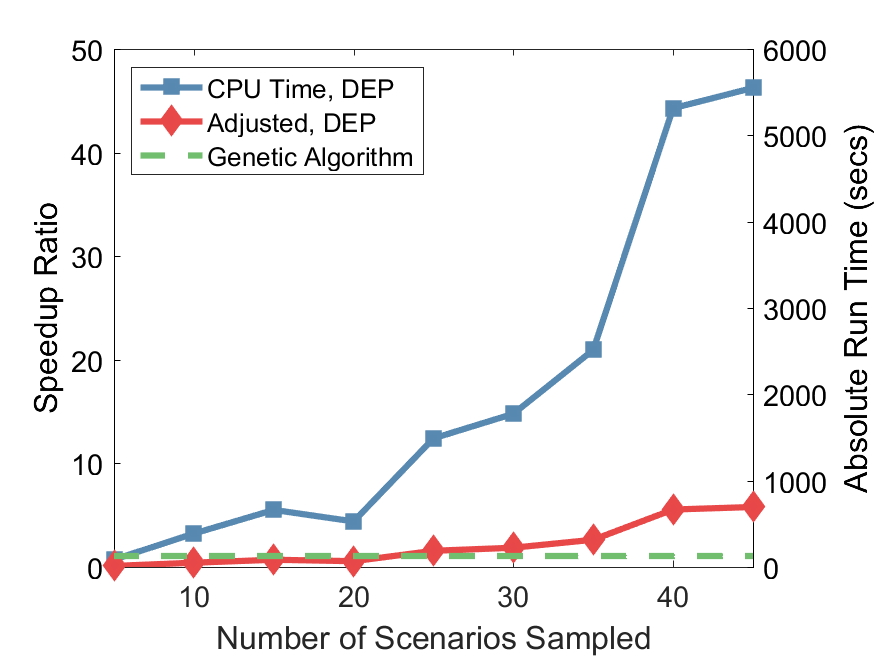
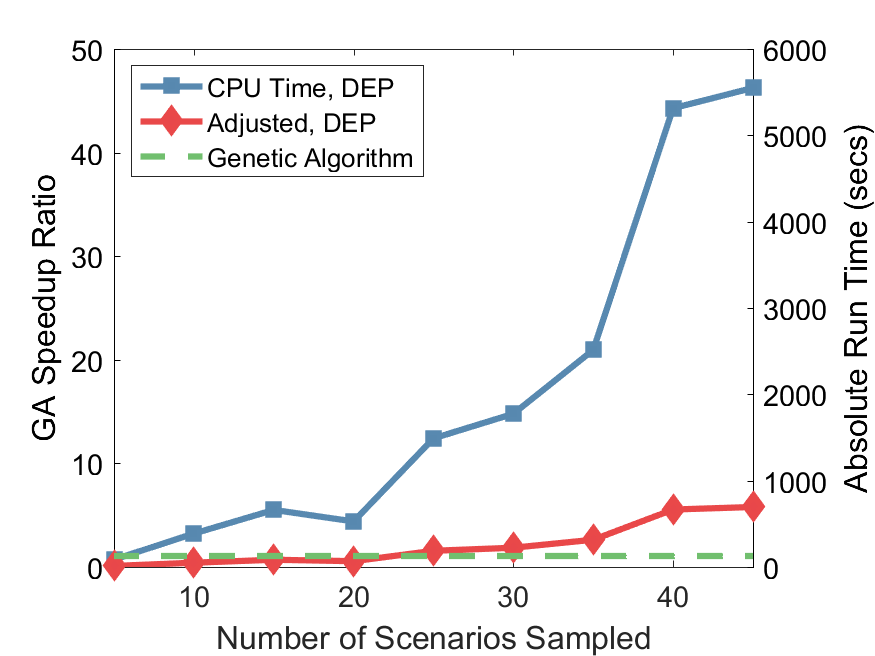
Sync

diff --git a/KT_Thesis.tex b/KT_Thesis.tex
@@ -35,6 +35,7 @@
 \usepackage{hyperref}
 \usepackage{cleveref}
 \usepackage{setspace}
+\usepackage{nicefrac}
 
 \newif\ifisdoublespacing
 
@@ -460,7 +461,7 @@ Throughout this thesis, stochastic variables will be differentiated from determi
 
 Consider a geographic region, $\mathcal{R}$, of width $X$ meters and length $Y$ meters that contains a VNB and a set $\mathcal{S} \defeq \left\{ 1,\, 2,\, \ldots,\, S \right\}$ of virtualized resources (i.e., BSs) the VNB has aggregated for use in the construction of VWNs.  The pool of BSs, $\mathcal{S}$, is mapped to physical BSs owned and maintained by RPs and made available for use through contracts between the RPs and the VNB.  The contract-negotiated cost for the VNB to lease BS $s \in \mathcal{S}$ is denoted by $c_s$.  The costs for the BSs used within a constructed VWN are passed to the SPs as part of the overall cost of the network.  The rate capacity of BS $s \in \mathcal{S}$ is denoted by $r_s$ and its coverage radius is denoted by $b_s$.
 
-Let $\mathcal{N} \defeq \left\{ 1,\, 2,\, \ldots,\, N \right\}$ be the set of SPs seeking a VWN with coverage within the region $\mathcal{R}$.  An SP $n \in \mathcal{N}$ associates with the VNB to create the desired VWN.  Through this association, SP $n$ must coordinate with the VNB to indicate the demands of the intended service the VWN would need to satisfy.  SP $n$ must know and communicate to the VNB the estimated geographic distribution of the service's traffic demand density (or demand \emph{intensity}) as a function, $\lambda_n\left( x,\, y \right),\, n \in \mathcal{N},\, x \in \left[ 0,\, X \right],\, y \in \left[ 0,\, Y \right],\,$ in terms of $\frac{\text{bits}}{\text{km}^2}$.  The demand intensity function could be in the form of a continuous function or as discrete pixels (e.g., a bitmap), and indicates the locations of necessary coverage and the desired capacity within specific regions of the area.  Examples of possible maps could be for services such as localized video streaming (specific, localized coverage with high regional capacities) or MNO-like voice lines (broad coverage with comparatively low capacity).  For an example of $\lambda_n$, see \Cref{subsec:networkdefs_sslt}.
+Let $\mathcal{N} \defeq \left\{ 1,\, 2,\, \ldots,\, N \right\}$ be the set of SPs seeking a VWN with coverage within the region $\mathcal{R}$.  An SP $n \in \mathcal{N}$ associates with the VNB to create the desired VWN.  Through this association, SP $n$ must coordinate with the VNB to indicate the demands of the intended service the VWN would need to satisfy.  SP $n$ must know and communicate to the VNB the estimated geographic distribution of the service's traffic demand density (or demand \emph{intensity}) as a function, $\lambda_n\left( x,\, y \right),\, n \in \mathcal{N},\, x \in \left[ 0,\, X \right],\, y \in \left[ 0,\, Y \right],\,$ in terms of $\nicefrac{\text{bits}}{\text{km}^2}$.  The demand intensity function could be in the form of a continuous function or as discrete pixels (e.g., a bitmap), and indicates the locations of necessary coverage and the desired capacity within specific regions of the area.  Examples of possible maps could be for services such as localized video streaming (specific, localized coverage with high regional capacities) or MNO-like voice lines (broad coverage with comparatively low capacity).  For an example of $\lambda_n$, see \Cref{subsec:networkdefs_sslt}.
 
 Further, the SP would also provide the desired or needed percent demand satisfaction rate\footnote{Percent demand satisfaction rate refers to the percent of the demand described by $\lambda_n$ that is satisfied by VWN constructed by the VNB.  In this context, it is the percent of total requested demand that is sliced resources by the VNB.  This will be more formally described later in \Cref{sec:stochopt} (\cref{eq:VWN_demand_sat}) and evaluated during simulations in \Cref{ch:sim}.} for the service.  Some services, such as those related to emergency services, must have nearly 100\% demand satisfaction.  Others, such as generic voice lines or video streaming, may be able to tolerate some unsatisfied demand as a tradeoff for decreased network leasing or operational costs.
 
@@ -591,14 +592,14 @@ The autocorrelation function is notably dependent on the maximum angular frequen
 \begin{subfigure}{.45\textwidth}
 	\centering
 	\includegraphics[width=1\linewidth]{lambdaG_O2pi-300_L100000_X100_Y100}
-	\caption{\small $\omega_{\max}=\frac{2 \pi}{30}$}
+	\caption{\small $\omega_{\max}=\nicefrac{2 \pi}{30}$}
 	\label{fig:lambdaG_2pi-300}
 \end{subfigure}
 \hspace{0.5cm}
 \begin{subfigure}{.45\textwidth}
 	\centering
 	\includegraphics[width=1\linewidth]{lambdaG_O4pi-300_L100000_X100_Y100}
-	\caption{\small $\omega_{\max}=\frac{4 \pi}{30}$}
+	\caption{\small $\omega_{\max}=\nicefrac{4 \pi}{30}$}
 	\label{fig:lambdaG_4pi-300}
 \end{subfigure}
 \caption[Example Gaussian random fields for SSLT demand model generation]{\small Two example Gaussian random fields (i.e., $\lambda^G$) for generating the SSLT demand model, varying by $\omega_{\max}$.  $L = 100000,\, X = 100,\, Y = 100$}
@@ -625,14 +626,14 @@ Fig. \ref{fig:lambda} shows the resulting SSLT demand density distribution, $\la
 \begin{subfigure}{.45\textwidth}
 	\centering
 	\includegraphics[width=1\linewidth]{lambda_O2pi-300_L100000_X100_Y100}
-	\caption{\small $\omega_{\max}=\frac{2 \pi}{30}$}
+	\caption{\small $\omega_{\max}=\nicefrac{2 \pi}{30}$}
 	\label{fig:lambda_2pi-300}
 \end{subfigure}
 \hspace{0.5cm}
 \begin{subfigure}{.45\textwidth}
 	\centering
 	\includegraphics[width=1\linewidth]{lambda_O4pi-300_L100000_X100_Y100}
-	\caption{\small $\omega_{\max}=\frac{4 \pi}{30}$}
+	\caption{\small $\omega_{\max}=\nicefrac{4 \pi}{30}$}
 	\label{fig:lambda_4pi-300}
 \end{subfigure}
 \caption[Generated example SSLT demand fields]{\small Two SSLT demand fields generated from the $\lambda^G$ demand fields displayed in Fig. \ref{fig:lambdaG}. $\mu = 0,\, \sigma = 1$}
@@ -648,14 +649,14 @@ I deviate from their implementation by leaving the SSLT distribution as a contin
 \begin{subfigure}{.45\textwidth}
 	\centering
 	\includegraphics[width=1\linewidth]{lambda_nsPPP-400_O2pi-300_L100000_X100_Y100}
-	\caption{\small $\omega_{\max}=\frac{2 \pi}{30}$}
+	\caption{\small $\omega_{\max}=\nicefrac{2 \pi}{30}$}
 	\label{fig:lambda_nsPPP_2pi-300}
 \end{subfigure}
 \hspace{0.5cm}
 \begin{subfigure}{.45\textwidth}
 	\centering
 	\includegraphics[width=1\linewidth]{lambda_nsPPP-400_O4pi-300_L100000_X100_Y100}
-	\caption{\small $\omega_{\max}=\frac{4 \pi}{30}$}
+	\caption{\small $\omega_{\max}=\nicefrac{4 \pi}{30}$}
 	\label{fig:lambda_nsPPP_4pi-300}
 \end{subfigure}
 \caption[Realizations of example SSLT demand point distributions]{\small Example demand point realizations distributed according to the described non-stationary PPP with 400 demand points.}
@@ -786,7 +787,7 @@ As the DEP reformulation is equivalent to the original stochastic optimization p
 
 As presented, the DEP, while solvable, is ineffective.  However, an alternative to the DEP can be found without needing to consider the entire scope of the sample space.  By generating a number of random scenarios, $\Omega$ is sampled into a set of smaller size, trading accuracy of the solution for manageability.
 
-Let $\hat{\Omega} \defeq \left\{ 1,\, 2,\, \ldots,\, O \right\} \subset \Omega$ be this finite, discrete set containing $O$ sampled scenarios of the sample space.  Each scenario in $\hat{\Omega}$ is generated as a single, independent realization of demand points according to the demand intensity field $\lambda_n$ (i.e., a non-stationary PPP with intensity function $\lambda_n$; see \Cref{sec:networkdefs} and \cref{eq:nsPPPaccrej}).  As a result of this unweighted random sampling, each scenario in $\hat{\Omega}$ has equal probability of occurring.  That is, $p^{\left( \omega \right)} = \frac{1}{O}, \forall \omega \in \hat{\Omega}$.  By making this change, the sampled deterministic equivalent program (sDEP) (\cref{eq:sDEPO,eq:sDEPC1,eq:sDEPC2,eq:sDEPC3,eq:sDEPC4}), or sample average approximation (SAA), of the original stochastic optimization program is found.
+Let $\hat{\Omega} \defeq \left\{ 1,\, 2,\, \ldots,\, O \right\} \subset \Omega$ be this finite, discrete set containing $O$ sampled scenarios of the sample space.  Each scenario in $\hat{\Omega}$ is generated as a single, independent realization of demand points according to the demand intensity field $\lambda_n$ (i.e., a non-stationary PPP with intensity function $\lambda_n$; see \Cref{sec:networkdefs} and \cref{eq:nsPPPaccrej}).  As a result of this unweighted random sampling, each scenario in $\hat{\Omega}$ has equal probability of occurring.  That is, $p^{\left( \omega \right)} = \nicefrac{1}{O}, \forall \omega \in \hat{\Omega}$.  By making this change, the sampled deterministic equivalent program (sDEP) (\cref{eq:sDEPO,eq:sDEPC1,eq:sDEPC2,eq:sDEPC3,eq:sDEPC4}), or sample average approximation (SAA), of the original stochastic optimization program is found.
 
 \begin{tcolorbox}[floatplacement = !ht, float, title = Sampled Deterministic Equivalent Program (sDEP) of \Cref{eq:SOPS1O,eq:SOPS1C1,eq:SOPS2O,eq:SOPS2C1,eq:SOPS2C2,eq:SOPS2C3,eq:SOPS2C4}]
 \begin{align}
@@ -921,13 +922,13 @@ Under roulette-wheel selection, parents are each randomly selected with a probab
 
 Once selection has occurred, the individuals selected via roulette-wheel selection are paired off.  With a probability of $p_{\text{xov}}$, the pair undergoes crossover to form their two children which go on to the next generation; otherwise, the parents are cloned as their own children.  During crossover, the chromosomes of each pair of parents are mixed.  Typical forms of crossover include single-point, k-point, and uniform crossover, though there are other more exotic forms that are application specific.
 
-I use uniform crossover as it has been suggested~\cite{Picek:2011:ECO:2184629.2184665} to be one of the best crossover operators in terms of general performance.  With uniform crossover, each gene in the chromosomes of the children are independently chosen from the parents' genomes with equal probability (i.e., 50\%).  A random binary mask of length $S$ is generated.  The first child inherits genes from the first parent where there is a $1$ in the mask and from the second parent where there is a $0$; the second child inherits the inverse.
+I use uniform crossover as it has been suggested~\cite{Picek:2011:ECO:2184629.2184665} to be one of the best crossover operators in terms of general performance.  With uniform crossover, each gene in the chromosomes of the children are independently chosen from the parents' genomes with equal probability (i.e., 50\%)~\cite{Syswerda:1989:UCG:645512.657265}.  A random binary mask of length $S$ is generated.  The first child inherits genes from the first parent where there is a $1$ in the mask and from the second parent where there is a $0$; the second child inherits the inverse.
 
 Compared to single-point crossover, uniform crossover is also suggested to increase exploration of the search space as it severs the positional bias (linkage) of the bits in the genome~\cite{782011}; bits with possible spatial significance to one another no longer undergo crossover in segments like they would in single or k-point crossover.
 
 \subsubsection{Mutation}
 
-Once each child has been generated, each bit within the child's genome has an independent chance, $p_{\text{mut}}$, to mutate.  When a bit mutates, the bit flips from 1 to 0, or from 0 to 1.  Typically, the chance of each bit to mutate is $p_{\text{mut}} = \frac{1}{l}$, where $l$ is the length of the chromosome, which provides an average of one bit mutation per child~\cite{GREENWELL19951,Deb2011}.  For $\textbf{z}^{\left\{ ig \right\}}$, $p_{\text{mut}} = \frac{1}{S}$.
+Once each child has been generated, each bit within the child's genome has an independent chance, $p_{\text{mut}}$, to mutate.  When a bit mutates, the bit flips from 1 to 0, or from 0 to 1.  Typically, the chance of each bit to mutate is $p_{\text{mut}} = \nicefrac{1}{l}$, where $l$ is the length of the chromosome, which provides an average of one bit mutation per child~\cite{GREENWELL19951,Deb2011}.  For $\textbf{z}^{\left\{ ig \right\}}$, $p_{\text{mut}} = \nicefrac{1}{S}$.
 
 \subsubsection{Uniqueness}
 
@@ -964,106 +965,21 @@ This first considered problem is an initial simulation testing the performance o
 
 \subsection{Setup} \label{subsec:prelim_setup}
 
-\begin{table}[ht]
-\centering
-\caption{Numerical Values of\\Relevant Parameters for Preliminary Simulations}
-\begin{tabular}{|c|c|} 
-\hline
-Width, Height of Geographic Area ($X$) & 2 km x 2 km \\
-\hline
-Number of BSs ($S$) & 60 \\ 
-\hline 
-Number of Demand Points ($M$) & 75 \\ 
-\hline 
-Number of SPs ($N$) & 1 \\
-\hline
-Number of Sampled Scenarios ($O$) & $\{5,\, 10,\, \ldots,\, 50\}$ \iffalse 25 \fi \\ 
-\hline 
-BS cost ($c_s,\, \forall s \in \mathcal{S}$) & 1 \\ 
-\hline 
-BS capacity ($r_s,\, \forall s \in \mathcal{S})$ & 1.50 Mbps \\ 
-\hline
-BS range ($b_s,\, \forall s \in \mathcal{S}$) & 500 m \\
-\hline 
-Point Traffic Demand ($d$) & 0.178 Mbps \\ 
-%\hline 
-%Two-Stage Model Weight ($\alpha$) & 20\iffalse $\{5,\, 10,\, \ldots,\, 100\}$ \fi \\ 
-\hline 
-\hline
-SSLT Approximation Depth ($L$) & 50 \\ 
-\hline
-SSLT Maximum Angular Frequency ($\omega_{\max}$) & $\frac{2 \; \pi}{30}$ \\
-\hline 
-SSLT Location Parameter ($\sigma$) & 0 \\ 
-\hline 
-SSLT Scale Parameter ($\mu$) & 1 \\ 
-\hline
-Pixel Grid Size & 100 x 100, 20 m \\
-\hline 
-\hline
-Maximum Number of Generations ($G$) & 3000 \\ 
-\hline
-Minimum Number of Generations ($G_{\min}$) & 300 \\
-\hline
-Unchanged Generations Before Fitness Halt ($G_{\text{fit}}$) & 150 \\
-\hline 
-Unchanged Generations Before Genome Halt ($G_{\text{gen}}$) & 400 \\
-\hline 
-Number of Individuals per Generation ($I$) & 80 \\ 
-\hline
-Number of Elite Individuals per Generation & 4 \\
-\hline 
-Probability of Crossover ($p_\text{xov}$) & 0.7 \\ 
-\hline
-Probability of Mutation per bit ($p_\text{mut}$) & $\frac{1}{S} = 0.0167$ \\
-\hline 
-Overcoverage Cost ($c_\text{cov}$) & 3 \\
-\hline
-Overcapacity Cost ($c_\text{cap}$) & 1.015 \\
-\hline
-\end{tabular}
-\label{tab:prelim_simval}
-\end{table}
-
 \iffalse
-\begin{figure}[p]
+\begin{figure}[tp]
 	\centering
-	\includegraphics[width=0.45\textheight]{Figures/BSLocationsVoronoi}
+	\includegraphics[width=0.7\textwidth]{Figures/BSLocationsVoronoi}
 	\caption{Voronoi tessellation of BS locations}
 	\label{fig:BSLocVor}
 \end{figure}
 
-\begin{figure}[p]
+\begin{figure}[tp]
 	\centering
-	\includegraphics[width=0.45\textheight]{Figures/SSLTnsPPP_demandpointreal}
+	\includegraphics[width=0.7\textwidth]{Figures/SSLTnsPPP_demandpointreal}
 	\caption{$\lambda$ with one realization of $\mathcal{M}$}
 	\label{fig:SSLTDPReal}
 \end{figure}
-
-\begin{figure}[p]
-	\centering
-	\begin{subfigure}{.55\textheight}
-		\centering
-		\includegraphics[width=\linewidth]{Figures/BSLocationsVoronoi}
-		\caption{Voronoi tesselation of BS locations}
-		\label{fig:BSLocVor}
-	\end{subfigure} \\
-	\begin{subfigure}{.55\textheight}
-		\centering
-		\includegraphics[width=\linewidth]{Figures/SSLTnsPPP_demandpointreal}
-		\caption{$\lambda$ with one realization of $\mathcal{M}$}
-		\label{fig:SSLTDPReal}
-	\end{subfigure}
-	\caption{Illustration of $\mathcal{R}$}
-\end{figure}
 \fi
-
-\begin{figure}[p]
-	\centering
-	\begin{minipage}{0.64\textwidth}
-	
-	\end{minipage}
-\end{figure}
 
 \iffalse
 \begin{figure*}[t]
@@ -1093,17 +1009,123 @@ Overcapacity Cost ($c_\text{cap}$) & 1.015 \\
 \end{figure*}
 \fi
 
-For these preliminary simulations, I use the parameter values shown in \Cref{tab:prelim_simval}.  There is only one SP, and its demand intensity function, $\lambda$, is generated using default location and scale parameters from the SSLT model ($\sigma = 0,\, \mu = 1$).  $\lambda$ is pixelated into a 100 by 100 grid of square pixels with 20 m side length; $\mathcal{R}$ is a region 2 km by 2 km in size.  The listed maximum angular frequency, $\omega_{\max}$, is in terms where each pixel is one unit (i.e., it correlates to a region that is 100 m by 100 m); in terms of absolute distance, $\omega_{\max}$ is scaled according to the side length (i.e., absolute $\omega_{\max} = \frac{\pi}{300}$).  Resources are homogeneous and constructed to saturate the region's demands.
+For these preliminary simulations, I use the parameter values shown in \Cref{tab:prelim_simval}.  There is only one SP, and its demand intensity function, $\lambda$, is generated using default location and scale parameters from the SSLT model ($\sigma = 0,\, \mu = 1$).  $\lambda$ is pixelated into a 100 by 100 grid of square pixels with 20 m side length; $\mathcal{R}$ is a region 2 km by 2 km in size illustrated in \Cref{fig:NetworkArea}.  The first listed maximum angular frequency, $\omega_{\max}$, is in expressed in units of cycles per pixel; in terms of absolute distance, $\omega_{\max}$ is scaled according to the side length (i.e., absolute $\omega_{\max} = \nicefrac{\pi}{300}$ cycles per meter) and parenthetically stated.  Resources are homogeneous and constructed to saturate the region's demands both in terms of coverage and capacity.
+
+\begin{table}[t]
+\centering
+\caption{Numerical Values of\\Relevant Parameters for Preliminary Simulations}
+\begin{tabular}{|c|c|} 
+\hline
+Width, Height of Geographic Area ($X$) & 2 km x 2 km \\
+\hline
+Number of BSs ($S$) & 60 \\ 
+\hline 
+Number of Demand Points ($M$) & 75 \\ 
+\hline 
+Number of SPs ($N$) & 1 \\
+\hline
+Number of Sampled Scenarios ($O$) & $\{5,\, 10,\, \ldots,\, 50\}$ \iffalse 25 \fi \\ 
+\hline 
+BS cost ($c_s,\, \forall s \in \mathcal{S}$) & 1 \\ 
+\hline 
+BS capacity ($r_s,\, \forall s \in \mathcal{S})$ & 1.50 Mbps \\ 
+\hline
+BS range ($b_s,\, \forall s \in \mathcal{S}$) & 500 m \\
+\hline 
+Point Traffic Demand ($d$) & 0.178 Mbps \\ 
+\hline 
+\hline
+SSLT Approximation Depth ($L$) & 50 \\ 
+\hline
+SSLT Maximum Angular Frequency ($\omega_{\max}$) & $\nicefrac{2 \pi}{30} \; \left( \nicefrac{\pi}{300} \right)$ \\
+\hline 
+SSLT Location Parameter ($\sigma$) & 0 \\ 
+\hline 
+SSLT Scale Parameter ($\mu$) & 1 \\ 
+\hline
+Pixel Grid Size & 100 x 100, 20 m \\
+\hline 
+\hline
+Maximum Number of Generations ($G$) & 3000 \\ 
+\hline
+Minimum Number of Generations ($G_{\min}$) & 300 \\
+\hline
+Unchanged Generations Before Fitness Halt ($G_{\text{fit}}$) & 150 \\
+\hline 
+Unchanged Generations Before Genome Halt ($G_{\text{gen}}$) & 400 \\
+\hline 
+Number of Individuals per Generation ($I$) & 80 \\ 
+\hline
+Number of Elite Individuals per Generation & 4 \\
+\hline 
+Probability of Crossover ($p_\text{xov}$) & 0.7 \\ 
+\hline
+Probability of Mutation per bit ($p_\text{mut}$) & $\nicefrac{1}{S} = 0.0167$ \\
+\hline 
+Overcoverage Cost ($c_\text{cov}$) & 3 \\
+\hline
+Overcapacity Cost ($c_\text{cap}$) & 1.015 \\
+\hline
+\end{tabular}
+\label{tab:prelim_simval}
+\end{table}
+
+\begin{figure}[tp]
+	\centering
+	\begin{subfigure}{.75\textwidth}
+		\centering
+		\includegraphics[width=\linewidth]{Figures/BSLocationsVoronoi}
+		\caption{Voronoi tesselation of BS locations}
+		\label{fig:BSLocVor}
+	\end{subfigure}
+	
+	\begin{subfigure}{.75\textwidth}
+		\centering
+		\includegraphics[width=\linewidth]{Figures/SSLTnsPPP_demandpointreal}
+		\caption{$\lambda$ with one realization of $\mathcal{M}$}
+		\label{fig:SSLTDPReal}
+	\end{subfigure}
+	\caption{Illustration of $\mathcal{R}$}
+	\label{fig:NetworkArea}
+\end{figure}
 
 \subsection{Results} \label{subsec:prelim_results}
 
-In Fig. \ref{fig:AlgSpeedupRunTime} is a comparison of the approach run times.  It shows the run times of both the DEP and genetic algorithm in terms of the speedup ratio and in absolute number of seconds.  As the number of scenarios sampled increases, the CPU run time of the sampled DEP increases exponentially, and fails to converge to a final solution with 50 scenarios within the time limit of 15 minutes.  Except for the 5 scenario case, the genetic algorithm converges to a solution in less CPU time (125.8 seconds) than the sampled DEP.  When 20 scenarios are sampled, the DEP takes approximately 440\% of the time as the genetic algorithm; at 45 scenarios, this has increased to 4,630\%.  CPLEX is capable of parallelizing across the 8 CPU cores, allowing for the wall clock run time to be, at minimum, one-eighth the CPU run time.  In terms of the adjusted approximate ``wall clock" time, the genetic algorithm converges in less wall clock time than the sampled DEP for 25 or more sampled scenarios.
+In Fig. \ref{fig:AlgSpeedupRunTime} is a comparison of the approach run times.  It shows the run times of both the DEP and genetic algorithm in terms of the speedup ratio and in absolute number of seconds.  As the number of scenarios sampled increases, the CPU run time of the sampled DEP increases exponentially, and fails to converge to a final solution with 50 scenarios within the time limit of 15 minutes.  Except for the 5 scenario case, the genetic algorithm converges to a solution in less CPU time (125.8 seconds) than the sampled DEP.  When 20 scenarios are sampled, the GA provides a 4.4x speedup over the sDEP approach; at 45 scenarios, this increased to 46.3x.  CPLEX is capable of parallelizing across the 8 CPU cores, allowing for the wall clock run time to be, at minimum, one-eighth the CPU run time.  In terms of the adjusted approximate ``wall clock" time, the genetic algorithm converges in less wall clock time than the sampled DEP for 25 or more sampled scenarios.
+
+\begin{figure}[tp]
+	\centering
+	\includegraphics[width=0.7\textwidth]{Figures/VOSGA_SpeedupRatio_AbsComp_alpha20}
+	\caption{Run time comparison of the GA and sDEP approaches with $\alpha = 20$}
+	\label{fig:AlgSpeedupRunTime}
+\end{figure}
 
 The trade off for the genetic algorithm's improved run time is that the solution provided is less optimal than the sampled DEP, as indicated by an increased cost for the VNB to build the VWN.  Fig. \ref{fig:VWNCompCost} compares the increasing cost of the sampled DEP as $\alpha$ increases with the cost of the various genetic algorithm solutions.  On average, the genetic algorithm incurs a 36\% increased cost in selecting the BSs for the VWN.  At minimum, the incurred cost is only 20\% than the sampled DEP, which implies the genetic algorithm might be terminating early, and a tighter solution might be found by increasing $G_\text{halt}$.  It should also be noted that one unit of cost is one additional BS being selected for the VWN, and the sampled DEP selections for $\alpha \geq 30$ have a cost of only 10 BSs.  Any variance that incurs one additional BS for the genetic algorithm incurs 10\% increased cost.  Increasing the number of BSs required to comprise the VWN would introduce additional granularity in $\mathcal{S}$ that might decrease the inefficiency of the genetic algorithm.  This was not done as this data set was chosen specifically so the sampled DEP would terminate within 15 minutes (i.e., in a reasonable amount of time); increasing the number of BSs available to the VNB drastically increases the time it would take the sampled DEP to converge to a solution.
 
+\begin{figure}[tp]
+	\centering
+	\includegraphics[width=0.7\textwidth]{Figures/ComparisonCost}
+	\caption{VWN costs}
+	\label{fig:VWNCompCost}
+\end{figure}
+
 There is a direct correlation between the number of BSs in the VWN and its capability for satisfying demand.  As the cost - and, therefore, the number of BSs - increases for a given solution, the average demand satisfaction trends towards 100\%, as shown in Fig. \ref{fig:VWNCompSatis}.  Because of this overallocation of resources, the genetic algorithm solutions have a very high demand satisfaction, averaging 99.9\% satisfaction and reaching 100\% for some solutions.  The worst performing genetic algorithm solution exceeded 99.1\% demand satisfaction.  The most expensive 10-BS sampled DEP solutions reach 99.2\% when slicing to the same set of demand point scenarios, $\Omega$, that determined the sampled DEP BS selection.
 
+\begin{figure}[tp]
+	\centering
+	\includegraphics[width=0.7\textwidth]{Figures/ComparisonSatisfaction}
+	\caption{SP demand point satisfaction}
+	\label{fig:VWNCompSatis}
+\end{figure}
+
 When the set of demand points change to a scenario no longer in $\Omega$, the sampled DEP performs very similarly.  Fig. \ref{fig:VWNCompSatisEval} shows the demand satisfaction for both the sampled DEP and genetic algorithm BS selections when sliced to a new set of scenarios as evaluated with Problem 3.  Here, the number of demand points increases to 200 points per scenario, each with 66.8 kbps rate demand, across 50 independent scenarios.  The demand satisfaction trend of the sampled DEP BS selection follows very closely to the original set of scenarios but hits a maximum of 99.0\% demand satisfaction with 10 BSs.  In comparison, the SP demand point scenarios are far more beneficial to the genetic algorithm, which reaches greater than 99.99\% demand satisfaction for all generated VWNs.  This is expected as a side effect of the increased number of points and scenarios more accurately describing a sampling of the original SSLT demand density field of the SP, $\rho$.
+
+\begin{figure}[tp]
+	\centering
+	\includegraphics[width=0.7\textwidth]{Figures/ComparisonSatisfactionEval}
+	\caption{50 new scenarios of 200 SP demand points evalutaed with Problem 3.}
+	\label{fig:VWNCompSatisEval}
+\end{figure}
 
 \section{Case I: Single SP with Homogeneous Resources} \label{sec:caseI}
 
